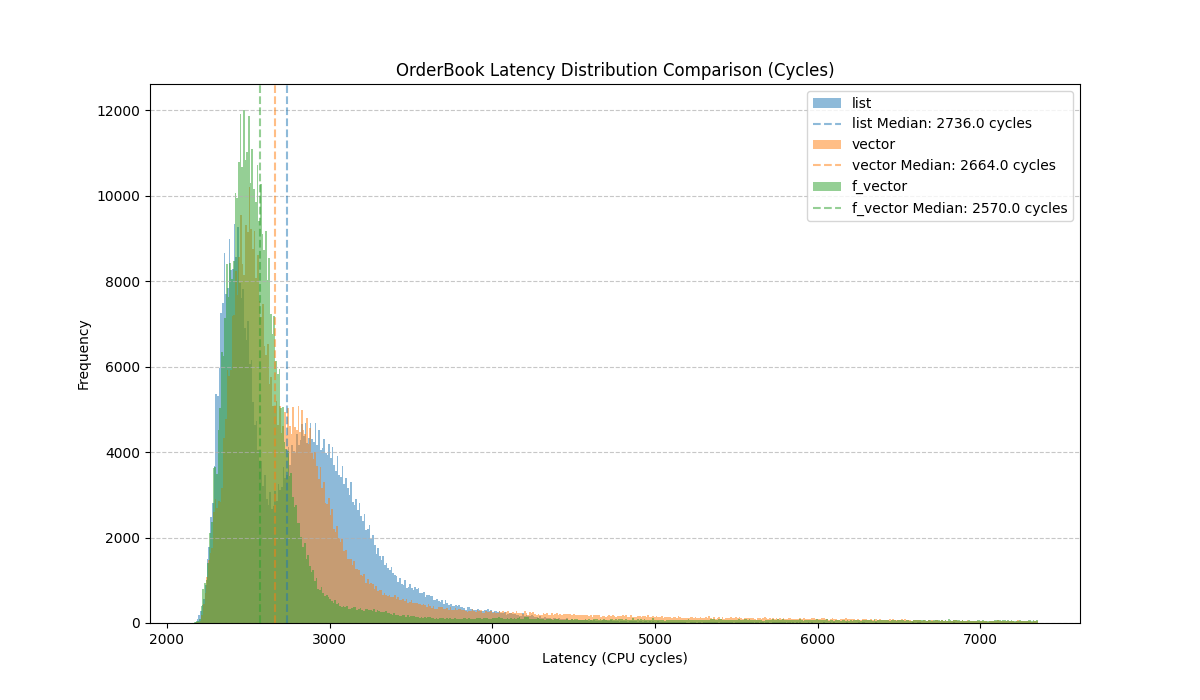
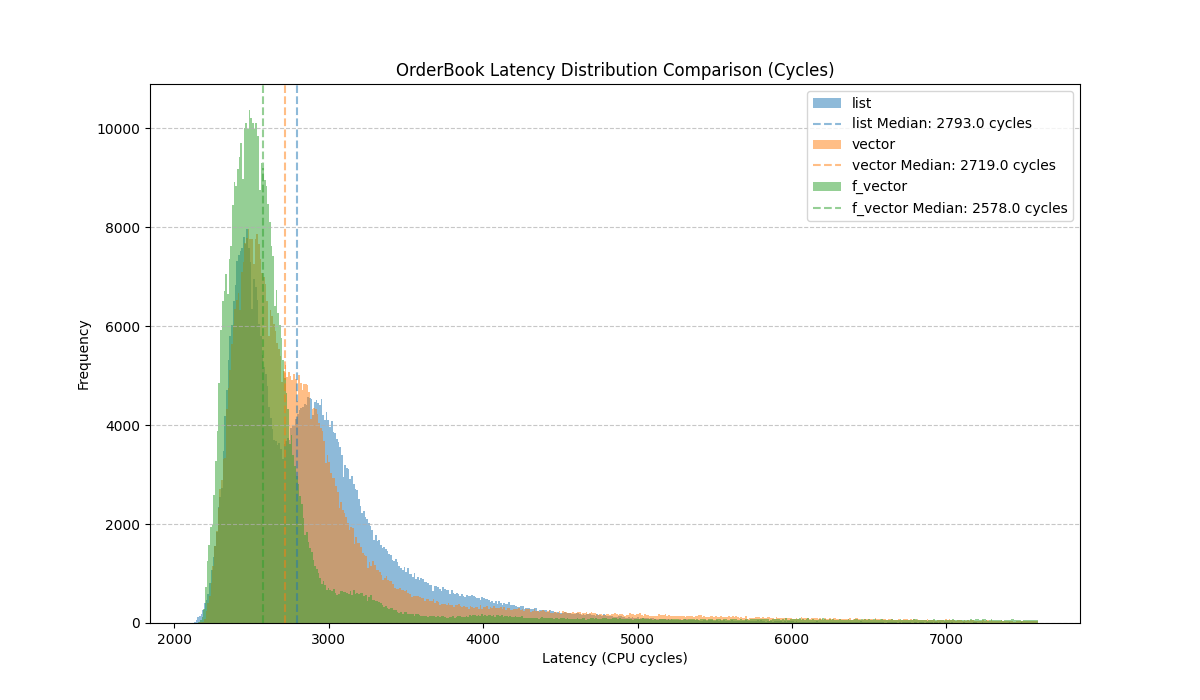
Added a Readme

diff --git a/README.md b/README.md
@@ -1,0 +1,200 @@
+# Lightning Orderbook
+
+Lightning Orderbook is a high-performance, single-threaded matching engine written in C++20. It is designed to process NASDAQ ITCH 5.0 binary data feeds and execute trades with minimal latency. 
+
+The project explores the performance trade-offs of different data structures and memory management techniques, evolving from a standard library-based approach to a highly optimized implementation using flat maps, intrusive lists, and custom memory pooling.
+
+## 🚀 Key Features
+
+- **High-Performance Matching**: Optimized for sub-microsecond latency.
+- **NASDAQ ITCH 5.0 Support**: Includes a high-speed binary parser for ITCH 5.0 feeds.
+- **Multiple Implementations**: Compare different architectural approaches to understand performance bottlenecks.
+- **Precision Benchmarking**: Hardware performance counter-based cycle-accurate latency measurements.
+- **Fast Data Ingestion**: Uses memory-mapped files (`mmap`) for zero-copy access to large binary data feeds.
+- **Symbol Hashing**: Symbols are pre-hashed to `uint64_t` for O(1) dictionary lookups and comparison.
+- **Deterministic**: Fixed-point arithmetic for prices (4 decimal places per ITCH 5.0) and zero-exception hot paths.
+
+---
+
+## 🏗 Architectural Implementations
+
+The project features three distinct implementations of the order book, each building on the lessons learned from the previous one.
+
+| Feature | `list_impl` | `vector_impl` | `f_vector_impl` |
+| :--- | :--- | :--- | :--- |
+| **Matching Engine** | `std::map` (RB Tree) | `std::map` (RB Tree) | **`absl::flat_hash_map`** |
+| **Price Map** | `std::map` (RB Tree) | `std::vector` (Flat Map) | `std::vector` (Flat Map) |
+| **Order Queue** | `std::list` (Standard) | Intrusive Doubly-Linked List | Intrusive Doubly-Linked List |
+| **Memory** | `std::allocator` | `std::allocator` | **Custom `OrderPool`** |
+| **Cache Optimization**| Minimal | Better | **Best (Alignment + Pool)** |
+
+### 1. List Implementation (`list_impl`)
+A baseline approach using standard library containers. It uses a `std::map` to store price levels and a `std::list` for the queue of orders at each price. While providing O(1) cancellations, it suffers from cache misses due to the node-based nature of both `std::map` and `std::list`.
+
+### 2. Vector Implementation (`vector_impl`)
+Optimizes for cache locality by replacing the per-book price levels map with a **Flat Map** (a sorted `std::vector` of price entries). It also introduces an **Intrusive Linked List** for the order queue, which embeds the pointers directly within the `Order` struct, reducing the number of allocations and pointer indirections.
+
+### 3. Fast Vector Implementation (`f_vector_impl`)
+The most optimized version. It builds on the `vector_impl` but applies further system-wide optimizations:
+- **`absl::flat_hash_map`**: Replaces standard maps in the `MatchingEngine` with Abseil's high-performance hash map for faster symbol and order lookups.
+- **Custom Order Pool**: Pre-allocates memory for `Order` objects in large blocks (arenas) to eliminate the overhead of `new`/`delete` and reduce heap fragmentation.
+- **Cache Alignment**: Uses `alignas(64)` to ensure `Order` and `PriceLevel` objects are aligned to CPU cache lines, preventing false sharing and optimizing fetch performance.
+
+---
+
+## ⏱ Performance Measurement & Profiling
+
+To achieve sub-microsecond latency, standard wall-clock timing is insufficient. This project employs several high-precision measurement techniques and recommends industry-standard tools for deep analysis.
+
+### 1. Cycle-Accurate Measurement (Project Built-in)
+The `CycleClock` module provides access to hardware CPU cycle counters, which are the most granular metric available.
+
+- **macOS (Apple Silicon)**: Uses the private `kperf` framework to read ARM's PMU (Performance Monitoring Unit) counters. This requires `sudo` privileges to enable thread-level counting.
+- **Linux (Planned/Manual)**: Uses `rdtsc` (x86) or `pmccntr_el0` (ARM64) instructions.
+
+### 2. Linux Performance Tools (`perf`)
+On Linux, the `perf` subsystem is the gold standard for profiling.
+
+- **Stat Analysis**: Get a high-level overview of cache misses and branch mispredictions:
+  ```bash
+  perf stat -e cycles,instructions,cache-references,cache-misses,branches,branch-misses ./build/bench_f_vector data/synthetic.itch
+  ```
+- **Record & Report**: Identify hot spots and "hot" assembly instructions:
+  ```bash
+  perf record -g ./build/bench_f_vector data/synthetic.itch
+  perf report
+  ```
+- **Flame Graphs**: Visualize the call stack to find bottlenecks:
+  ```bash
+  perf record -g ./build/bench_f_vector data/synthetic.itch
+  perf script | ./FlameGraph/stackcollapse-perf.pl | ./FlameGraph/flamegraph.pl > profile.svg
+  ```
+
+### 3. macOS Performance Tools (`Instruments`)
+For Apple Silicon, the **Xcode Instruments** suite provides powerful GUI-based analysis.
+
+- **Time Profiler**: Identifies which functions consume the most CPU time.
+- **Counters**: Accesses hardware PMU counters for instructions per cycle (IPC), L1/L2 cache misses, and more.
+- **System Trace**: Analyzes system calls and scheduling latency.
+- **Command Line**: Use `sample` for a quick sampling-based profile:
+  ```bash
+  sample ./build/bench_f_vector 10
+  ```
+
+### 4. Cache & Memory Analysis (`Valgrind`)
+To understand memory access patterns and cache efficiency:
+
+- **Cachegrind**: Simulates L1/L2 caches to identify exactly which lines of code cause cache misses.
+  ```bash
+  valgrind --tool=cachegrind ./build/bench_f_vector data/synthetic.itch
+  cg_annotate cachegrind.out.<pid>
+  ```
+- **Massif**: Profiles heap memory usage over time to ensure the `OrderPool` is behaving as expected.
+  ```bash
+  valgrind --tool=massif ./build/bench_f_vector data/synthetic.itch
+  ms_print massif.out.<pid>
+  ```
+
+---
+
+## 🔬 Benchmark Results Visualization
+
+To compare the implementations, use the provided automated script. This will generate a latency distribution plot (`comparison_results.png`) that highlights the performance differences between the `list`, `vector`, and `fast vector` versions.
+
+```bash
+# Run the full comparison suite
+./scripts/run_comparison.sh
+```
+
+### Understanding the Results
+- **P50 (Median)**: Represents the typical latency for a message. Significant improvements here indicate better cache locality and faster data structure traversal.
+- **P90/P99 (Tail Latency)**: Indicates how the engine handles bursts or complex scenarios (e.g., large order cancellations). The `f_vector_impl` should show significantly smaller tails due to the pre-allocated `OrderPool`.
+- **Distribution Shape**: A narrow, left-shifted peak indicates more deterministic and faster performance.
+
+---
+
+## 🪵 High-Performance Logging
+
+In low-latency systems, traditional synchronous logging (e.g., `std::cout` or writing to a file) is a major source of **jitter**. This project uses an asynchronous logging architecture to keep the matching path deterministic.
+
+### 1. Lock-Free Ring Buffer
+The core of the logging system is a **Single-Producer Single-Consumer (SPSC) Lock-Free Ring Buffer**.
+- **Batching**: Updates to the shared read/write counters are batched to minimize cache-coherency traffic between CPU cores.
+- **Cache Alignment**: The producer and consumer counters are placed on separate cache lines (`alignas(64)`) to prevent **false sharing**.
+- **Memory Barriers**: Uses `std::memory_order_acquire` and `std::memory_order_release` to ensure thread safety without the heavy overhead of mutexes.
+
+### 2. Asynchronous Logger
+The `Logger` offloads the expensive task of string formatting and I/O to a background thread.
+- **Hot Path**: The matching engine simply pushes a small, fixed-size event (like a `FillEvent`) onto the Ring Buffer. This is an O(1) operation that takes only a few nanoseconds.
+- **Background Thread**: A dedicated consumer thread polls the Ring Buffer, formats the logs, and writes them to the destination, ensuring that I/O delays never block the matching engine.
+
+---
+
+## 🧪 Testing
+
+The engine includes a comprehensive test suite using **Catch2**.
+ We test for:
+- **ITCH Parser Correctness**: Ensuring binary messages are correctly decoded.
+- **Matching Logic**: Verifying price-time priority, partial fills, and cancellations.
+- **Order Book Integrity**: Ensuring the book remains balanced and consistent after complex operations.
+
+The tests are split by implementation:
+```bash
+# Run tests for all implementations (using CTest)
+cd build && ctest
+
+# Or run individual test binaries
+./build/test_list
+./build/test_vector
+./build/test_f_vector
+```
+
+---
+
+## 🛠 Getting Started
+
+### Prerequisites
+- **Compiler**: C++20 compatible (Clang 12+ or GCC 10+).
+- **Build System**: CMake 3.15+.
+- **OS**: macOS (optimized for Apple Silicon) or Linux.
+
+### Build Instructions
+```bash
+# Configure the project
+cmake -B build -DCMAKE_BUILD_TYPE=Release
+
+# Build all targets
+cmake --build build
+```
+
+---
+
+## 📁 Project Structure
+
+```text
+├── f_vector_impl/   # Optimized flat-vector + pool implementation
+├── vector_impl/     # Flat-vector implementation
+├── list_impl/       # Baseline map-based implementation
+├── itch/            # ITCH 5.0 parser module
+├── bench/           # Benchmark harness and cycle clock
+├── tests/           # Unit tests (Catch2)
+├── scripts/         # Benchmarking and plotting scripts
+└── docs/            # Performance results and documentation
+```
+
+---
+
+## 📖 Architectural Decisions
+
+- **Fixed-Point Arithmetic**: Prices are handled as `int64_t` with a scale of $10^{-4}$ (matching ITCH 5.0 precision) to avoid floating-point inaccuracies and performance overhead.
+- **Branch Prediction Hints**: The matching loop heavily utilizes C++20 `[[likely]]` and `[[unlikely]]` attributes to optimize the CPU instruction pipeline for the "happy path" (e.g., assuming orders will match or assuming quantities > 0).
+- **Symbol Hashing**: Symbols (e.g., "AAPL    ") are parsed and hashed into `uint64_t` integers inline during ITCH ingestion, enabling O(1) dictionary lookups and avoiding `std::string` allocations entirely.
+- **Memory-Mapped I/O**: The benchmark harness uses `mmap` to map binary ITCH files directly into the process's address space, enabling zero-copy parsing.
+- **Callback-Based Architecture**: Trade events (fills) and order updates are dispatched via high-performance callbacks, allowing for modular and decoupled event handling without the overhead of virtual functions or message queues.
+- **Asynchronous Logging**: Uses a lock-free SPSC Ring Buffer to offload logging I/O, preventing disk/console latency from affecting the matching engine's hot path.
+- **Single-Threaded Core**: The matching engine is designed to run on a single pinned CPU core to avoid context switching, cache invalidation, and the overhead of multi-threaded synchronization.
+
+---
+
+## 📜 License
+This project is open-source and available under the MIT License.
